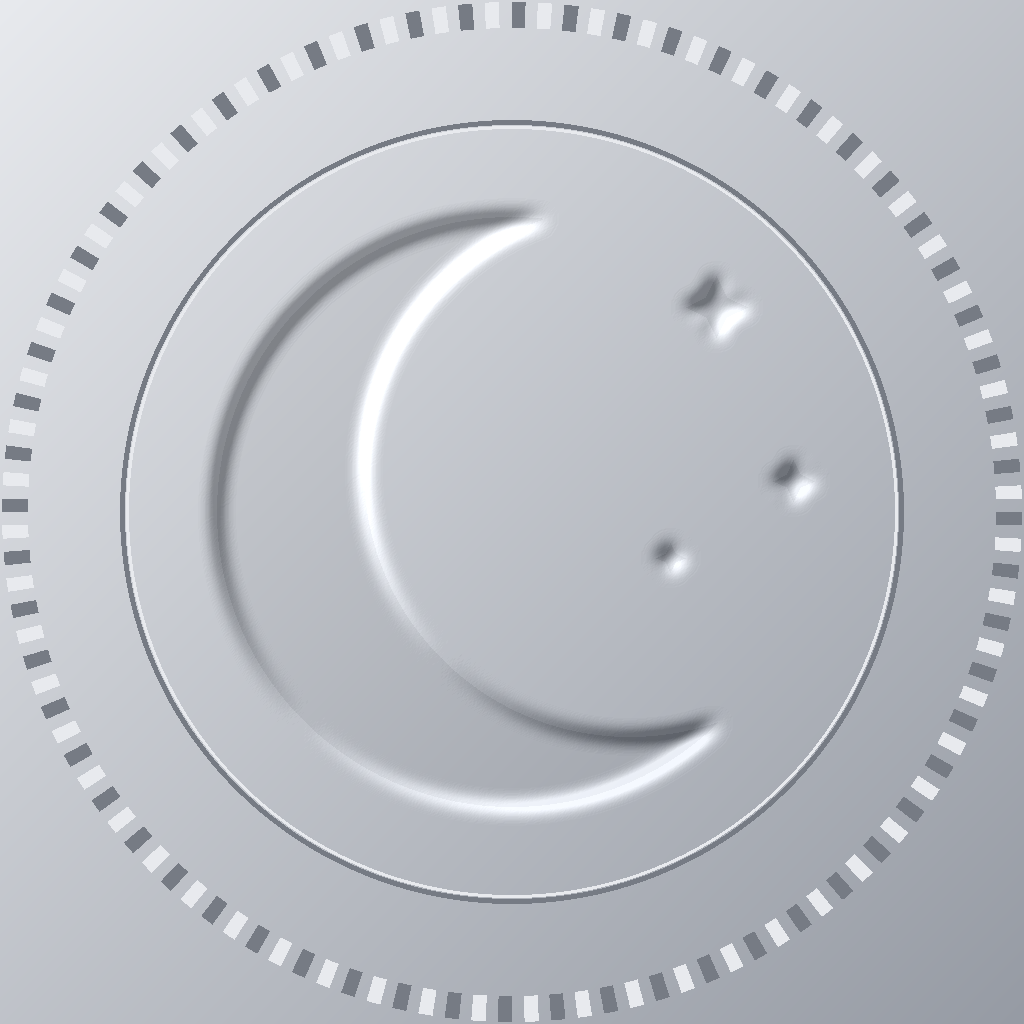
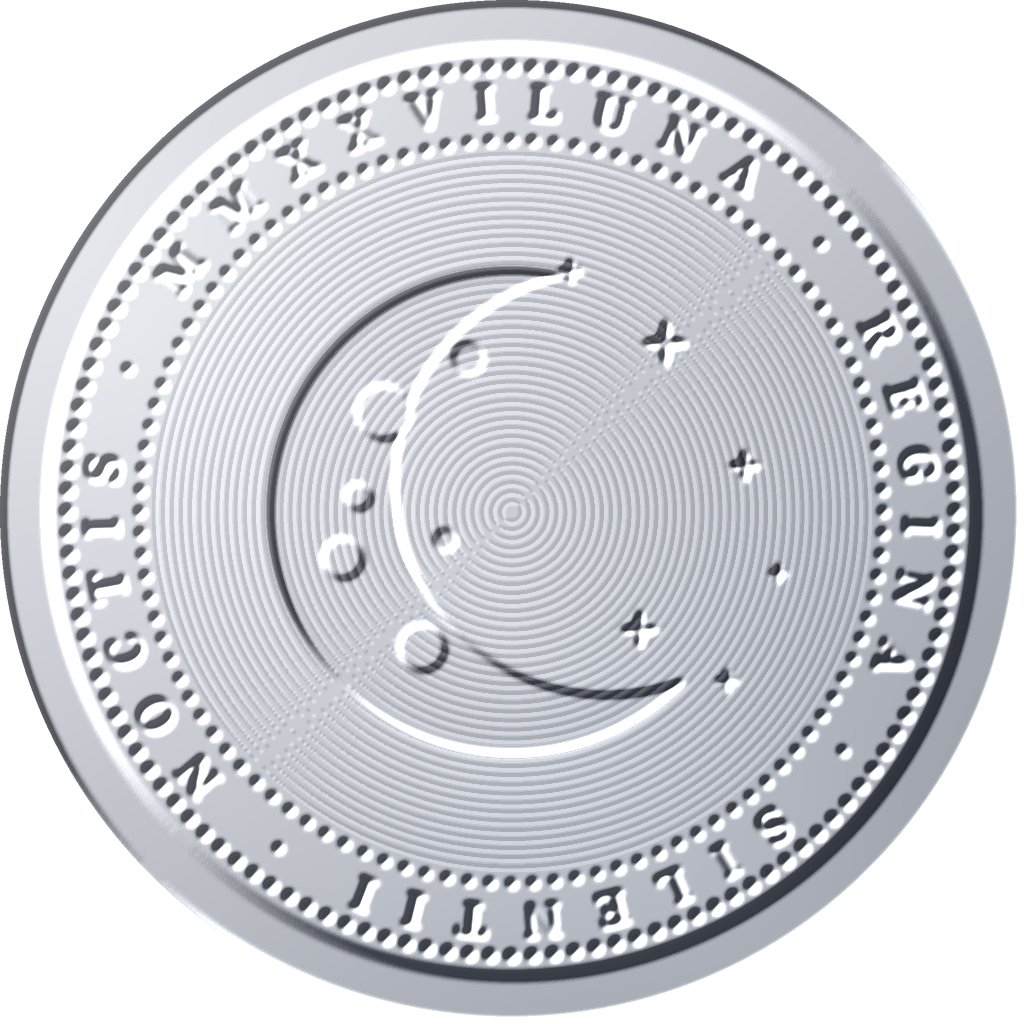
T21-T22 启动恢复与中断处理；硬币外观改版
生命周期：抛掷中切后台/来电即落定为已决定的结果，停声并取消未响的磕碰，
返回时不续播、不重新随机；未抛掷时切后台保持原状。

外观：贴图改为设计图版本（凸起外缘、双珠圈、拉丁文环、同心细纹、
日面放射光芒/月面新月与星），修正文字朝向为头朝外；
新增法线贴图，浮雕改由实时光照计算，高光随硬币转动流动，
彩色图中烘焙的明暗相应调淡六成，避免双重阴影。

Claude-Session: https://claude.ai/code/session_013L5obD5FRvDZWpqWPEBMAm

diff --git a/CoinFlip/Scene/CoinSceneView.swift b/CoinFlip/Scene/CoinSceneView.swift
@@ -327,19 +327,30 @@ struct CoinSceneView: View {
             ?? .generatePlane(width: radius * 2, height: radius * 2)
     }
 
-    /// 带图案的金属面
+    /// 带图案的金属面。
+    ///
+    /// 用了两张贴图：
+    ///   • 彩色图：银面的颜色和图案
+    ///   • 法线图：每一点的表面朝向。有了它，手机才能实时算出
+    ///     "硬币转到这个角度时，这道浮雕该多亮"——高光会跟着硬币走，
+    ///     而不是像印花一样贴死在上面。
     private func faceMaterial(textureNamed name: String) -> RealityKit.Material {
         var material = PhysicallyBasedMaterial()
-        // 这个场景里没有环境可供反射，所以金属度调低、靠灯光打出高光，
-        // 看起来反而更像有光泽的金属。
-        material.metallic = 0.22
-        material.roughness = 0.38
+        material.metallic = 0.42
+        material.roughness = 0.30
 
         if let texture = try? TextureResource.load(named: name) {
-            material.baseColor = .init(tint: UIColor(white: 0.62, alpha: 1),
+            material.baseColor = .init(tint: UIColor(white: 0.70, alpha: 1),
                                        texture: .init(texture))
         } else {
             material.baseColor = .init(tint: UIColor(white: 0.78, alpha: 1))
+        }
+
+        // 法线图要按"方向数据"读，不能当成普通图片，
+        // 否则系统会给它做色彩校正，起伏就全错了。
+        if let normal = try? TextureResource.load(named: name + "_normal",
+                                                  options: .init(semantic: .normal)) {
+            material.normal = .init(texture: .init(normal))
         }
         return material
     }

diff --git a/CoinFlip/App/CoinFlipApp.swift b/CoinFlip/App/CoinFlipApp.swift
@@ -22,6 +22,9 @@ struct CoinFlipApp: App {
 
 struct RootView: View {
 
+    /// App 是在前台、还是被切到后台了
+    @Environment(\.scenePhase) private var scenePhase
+
     /// 大脑。画面只问它"现在该显示哪一面"，不自己做决定。
     @State private var controller = CoinController()
 
@@ -75,6 +78,34 @@ struct RootView: View {
         .statusBarHidden(true)
         .persistentSystemOverlays(.hidden)
         .onAppear { controller.start() }
+        .onChange(of: scenePhase) { _, phase in handle(phase) }
+    }
+}
+
+extension RootView {
+
+    /// 切后台、被来电打断时的处理。对应任务 T22。
+    ///
+    /// 抛到一半被打断，就**立刻落定为这一次已经决定好的结果**：
+    ///   • 不重新随机——结果在上划那一刻就定了，也已经存过档
+    ///   • 不续播动画——回来时直接看到结果，不会接着飞
+    ///   • 立刻停声，并取消还没响的磕碰，免得回到主屏幕还在响
+    ///
+    /// 没在抛的时候切后台，什么都不做，保持原状。
+    private func handle(_ phase: ScenePhase) {
+        switch phase {
+        case .active:
+            // 回到前台：什么都不做。状态已经在离开时处理好了。
+            break
+
+        case .inactive, .background:
+            feedback.stopAll()
+            controller.interrupt()
+            flipStartedAt = nil
+
+        @unknown default:
+            break
+        }
     }
 }
 

diff --git a/CoinFlipTests/ResourcesTests.swift b/CoinFlipTests/ResourcesTests.swift
@@ -28,6 +28,8 @@ final class ResourcesTests: XCTestCase {
         let items: [(String, String)] = [
             (style.textureSun, "png"),
             (style.textureMoon, "png"),
+            (style.textureSun + "_normal", "png"),
+            (style.textureMoon + "_normal", "png"),
             (style.tossSound, "wav"),
             (style.landSound, "wav"),
         ]

diff --git a/scripts/make_assets.py b/scripts/make_assets.py
@@ -98,7 +98,7 @@ def circular_text(layer: Image.Image, text: str, r: float, height: float, v: int
         glyph = Image.new("L", (px * 2, px * 2), 0)
         ImageDraw.Draw(glyph).text((px, px), ch, font=font, fill=v, anchor="mm")
         # 转到头朝外：字母底边对着圆心
-        glyph = glyph.rotate(-math.degrees(a) + 90, resample=Image.BICUBIC)
+        glyph = glyph.rotate(-math.degrees(a) - 90, resample=Image.BICUBIC)
 
         x, y = polar(r, a)
         layer.paste(glyph, (int(x - px), int(y - px)), glyph)
@@ -179,8 +179,8 @@ def moon_motif(major: Image.Image, fine: Image.Image):
 
 # ─────────────────────────── 组装一面 ───────────────────────────
 
-def build_face(text: str, motif) -> Image.Image:
-    """画出一面的高度图，再打光成成品贴图"""
+def build_face(text: str, motif) -> tuple[Image.Image, Image.Image]:
+    """画出一面的高度图，再产出两张贴图：看得见的彩色图，和描述起伏的法线图"""
     major = new_layer()     # 大块浮雕：外缘、珠圈、文字、图案
     fine = new_layer()      # 细纹：底子上的同心线
     d = ImageDraw.Draw(major)
@@ -208,7 +208,7 @@ def build_face(text: str, motif) -> Image.Image:
     # 中央主图案
     motif(major, fine)
 
-    return light(major, fine)
+    return light(major, fine), normal_map(major, fine)
 
 
 def light(major: Image.Image, fine: Image.Image) -> Image.Image:
@@ -232,9 +232,41 @@ def light(major: Image.Image, fine: Image.Image) -> Image.Image:
     px = base_silver()
     px += shade[:, :, None]
     # 浮雕本身略微压暗，读起来才是金属而不是发光的
-    px -= (np.array(major, dtype=np.float32) / 255)[:, :, None] * 12
+    px -= (np.array(major, dtype=np.float32) / 255)[:, :, None] * 7
 
     img = Image.fromarray(np.clip(px, 0, 255).astype(np.uint8), "RGB").convert("RGBA")
+    img.putalpha(circular_alpha())
+    return img
+
+
+def normal_map(major: Image.Image, fine: Image.Image) -> Image.Image:
+    """
+    把高度图转成"法线图"。
+
+    彩色贴图里的明暗是**画死的**——光从左上来，就永远是左上亮。
+    硬币一翻转，这些高光跟着转，看着就像印上去的花纹，不像刻出来的。
+
+    法线图不存颜色，存的是"这一点的表面朝哪个方向"。有了它，
+    手机就能实时算出每一点该多亮——硬币转到哪，高光就跟着在哪，
+    浮雕才真正"活"起来。
+
+    这是把贴图从"印花"变成"浮雕"最便宜的一步，不用加一个三角形。
+    """
+    major = major.resize((SIZE, SIZE), Image.LANCZOS)
+    fine = fine.resize((SIZE, SIZE), Image.LANCZOS)
+
+    hm = np.array(major.filter(ImageFilter.GaussianBlur(2.2)), dtype=np.float32) / 255
+    hf = np.array(fine.filter(ImageFilter.GaussianBlur(0.9)), dtype=np.float32) / 255
+    height = hm + hf * 0.22                     # 细纹只占一点点起伏
+
+    gy, gx = np.gradient(height)
+    strength = 55.0                             # 浮雕的"深浅"，越大越立体
+    nx, ny, nz = -gx * strength, gy * strength, np.ones_like(gx)
+    norm = np.sqrt(nx * nx + ny * ny + nz * nz)
+    nx, ny, nz = nx / norm, ny / norm, nz / norm
+
+    rgb = np.stack([nx, ny, nz], axis=-1) * 0.5 + 0.5
+    img = Image.fromarray((rgb * 255).astype(np.uint8), "RGB").convert("RGBA")
     img.putalpha(circular_alpha())
     return img
 
@@ -248,7 +280,7 @@ def base_silver() -> np.ndarray:
     px = light_c[None, None, :] * (1 - t)[:, :, None] + dark_c[None, None, :] * t[:, :, None]
 
     # 斜向扫过的一道高光，像镜面反射
-    band = np.exp(-(((xx - yy) / SIZE + 0.18) ** 2) / 0.052) * 26
+    band = np.exp(-(((xx - yy) / SIZE + 0.18) ** 2) / 0.085) * 11
     return px + band[:, :, None]
 
 
@@ -350,10 +382,11 @@ if __name__ == "__main__":
     print("生成贴图：")
     for name, text, motif in [("sun_silver", SUN_TEXT, sun_motif),
                               ("moon_silver", MOON_TEXT, moon_motif)]:
-        img = build_face(text, motif)
-        path = OUT / f"{name}.png"
-        img.save(path, "PNG", optimize=True)
-        print(f"  {path.name}  {img.size[0]}x{img.size[1]}  {path.stat().st_size // 1024} KB")
+        color, normal = build_face(text, motif)
+        for suffix, img in [("", color), ("_normal", normal)]:
+            path = OUT / f"{name}{suffix}.png"
+            img.save(path, "PNG", optimize=True)
+            print(f"  {path.name}  {img.size[0]}x{img.size[1]}  {path.stat().st_size // 1024} KB")
     print("生成音效：")
     make_sounds()
     print("完成。")
